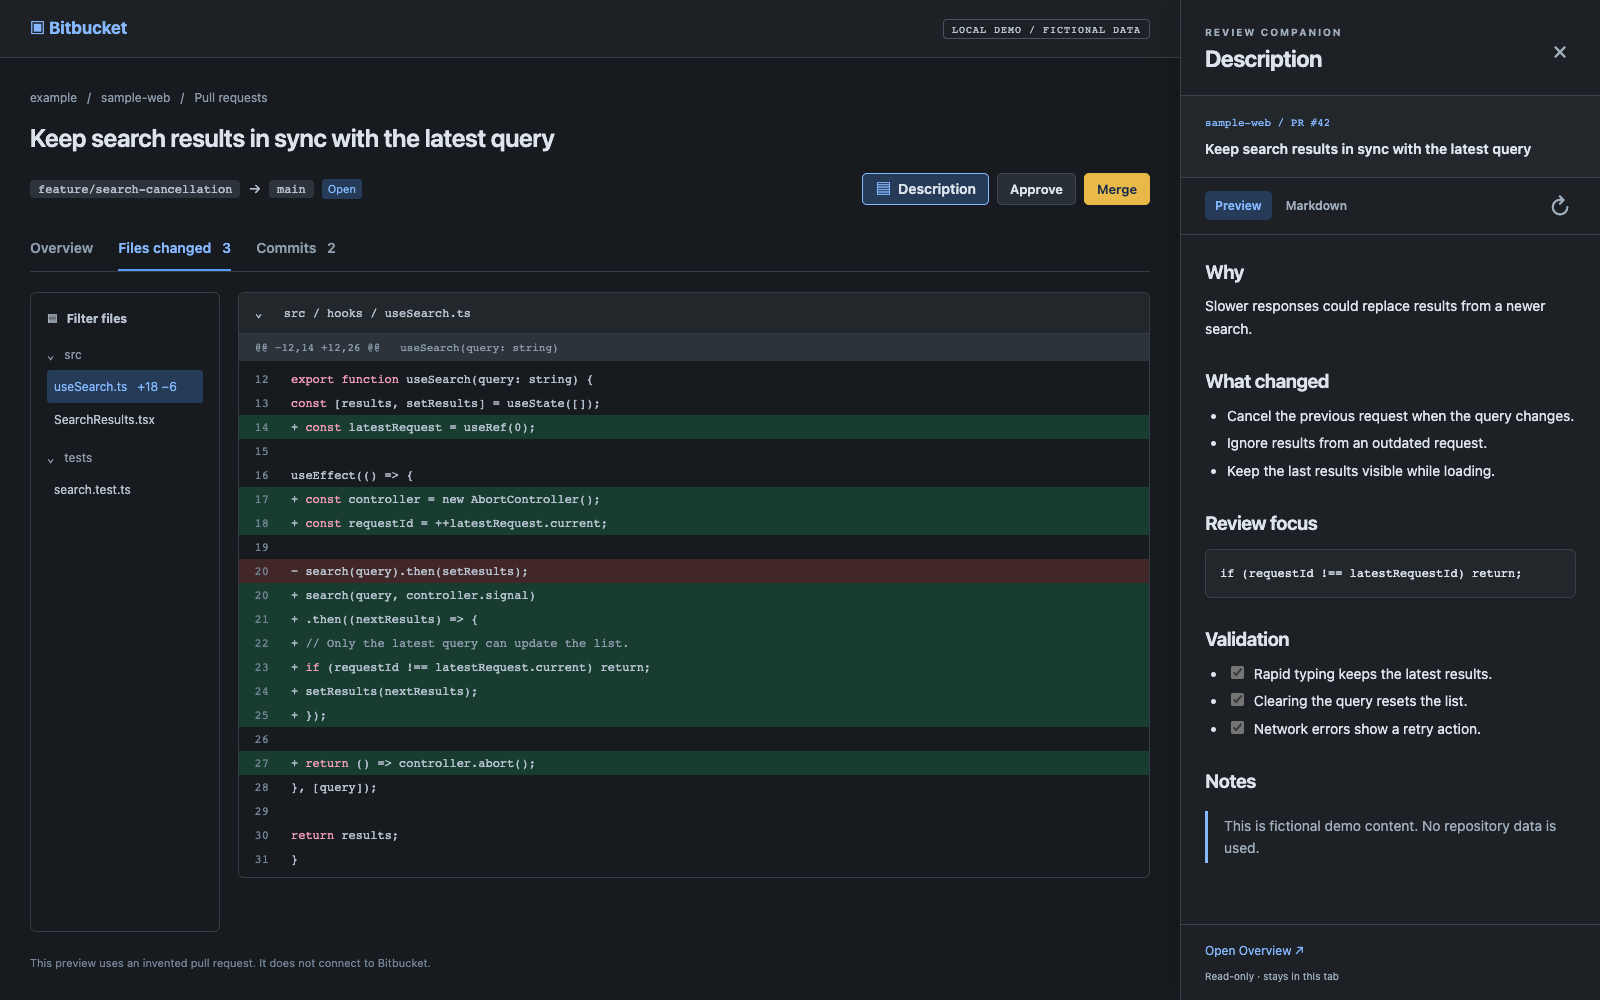
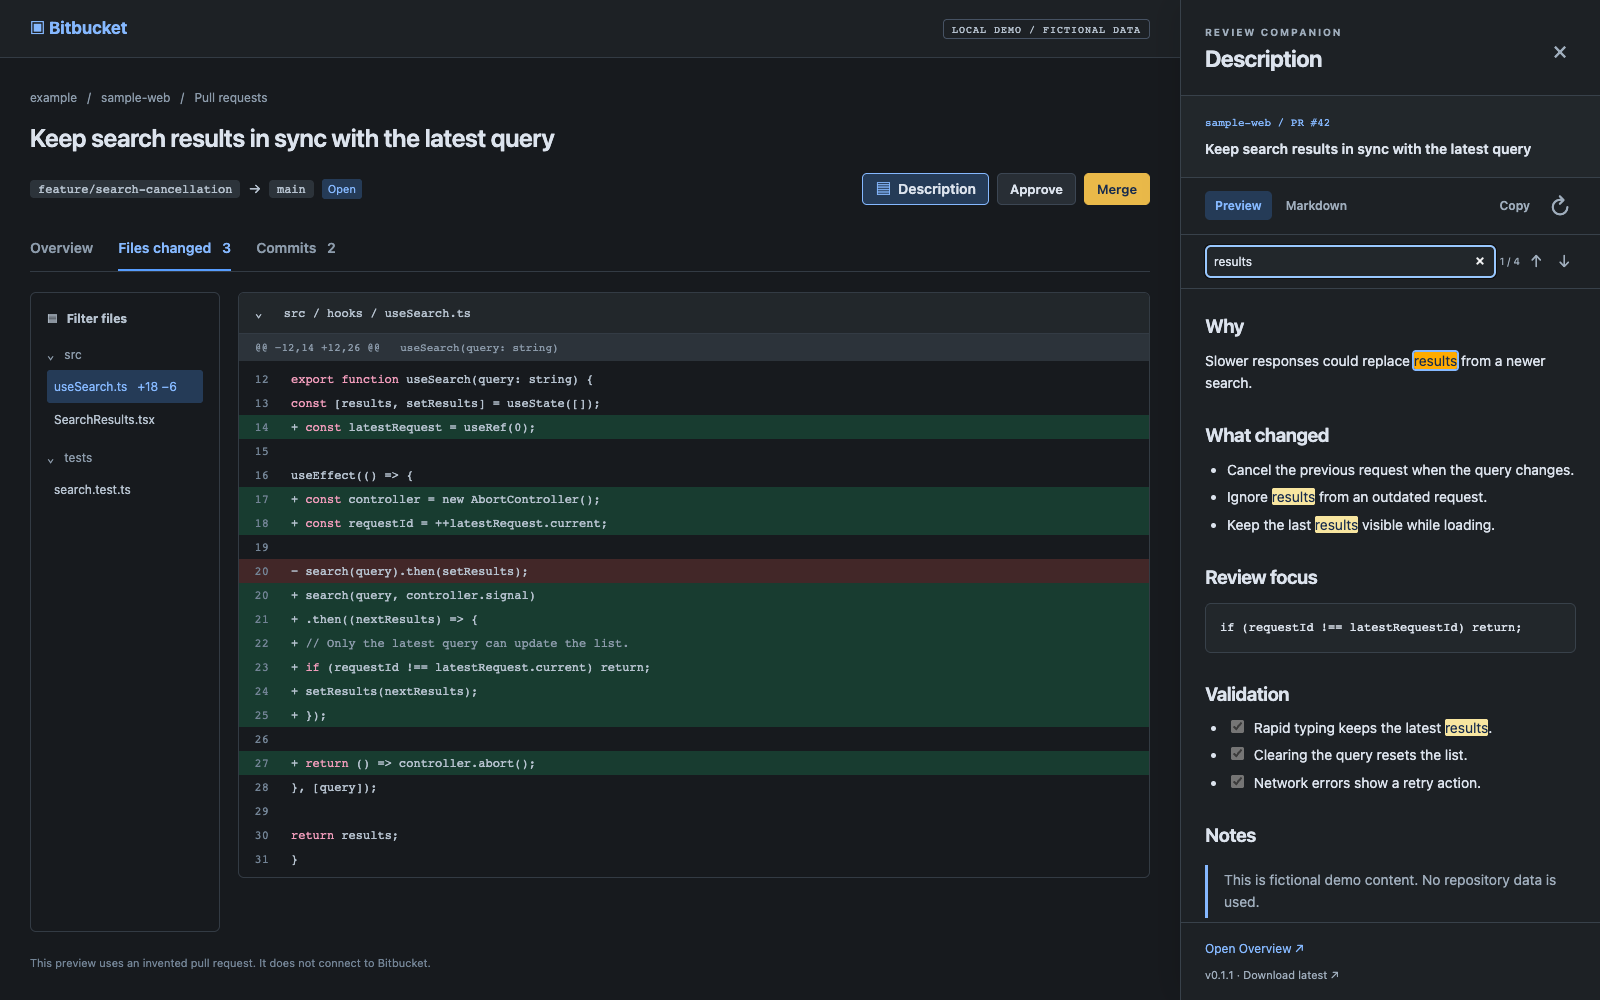
문서: 최신 설치 안내와 v0.1.1 미리보기 갱신

Changed region(s): [[0.75, 0.248, 0.9688, 0.589], [0.75, 0.62, 0.9688, 0.992], [0.9375, 0.186, 0.9688, 0.217]]

diff --git a/README.md b/README.md
@@ -76,7 +76,7 @@ pnpm demo     # 가상 PR 미리보기: http://127.0.0.1:4173
 pnpm package  # 설치용 ZIP 생성
 ```
 
-기능·빌드·테스트 코드를 `main`에 push하면 GitHub Actions가 패치 버전을 올리고, 검증을 통과한 설치용 ZIP을 [Releases](https://github.com/wondonghwi/bitbucket-pr-description/releases)에 발행합니다. 예를 들어 `0.1.1 → 0.1.2`로 올라가며, README나 미리보기만 수정하면 버전을 올리지 않습니다. 버전 파일이나 태그를 직접 수정할 필요가 없습니다.
+기능·빌드·테스트 코드를 `main`에 push하면 GitHub Actions가 패치 버전을 올리고, 검증을 통과한 설치용 ZIP을 [Releases](https://github.com/wondonghwi/bitbucket-pr-description/releases)에 발행합니다. 예를 들어 `0.1.1 → 0.1.2`로 올라가며, README나 미리보기만 수정하면 버전을 올리지 않습니다. 버전 파일이나 태그를 직접 수정할 필요가 없습니다. 자동 배포가 끝나면 `git pull --ff-only`로 버전 커밋도 받아주세요.
 
 릴리스가 실패하면 [Actions의 Release 실행](https://github.com/wondonghwi/bitbucket-pr-description/actions/workflows/release.yml)에서 재실행할 수 있습니다. 이미 만든 태그가 있으면 같은 버전의 배포를 이어갑니다.
 
